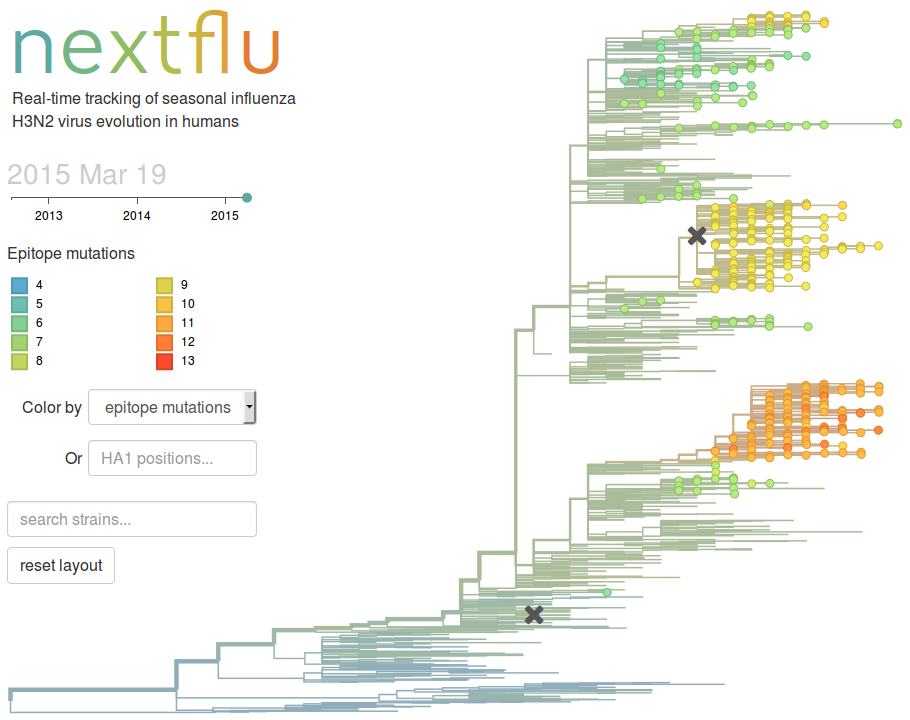
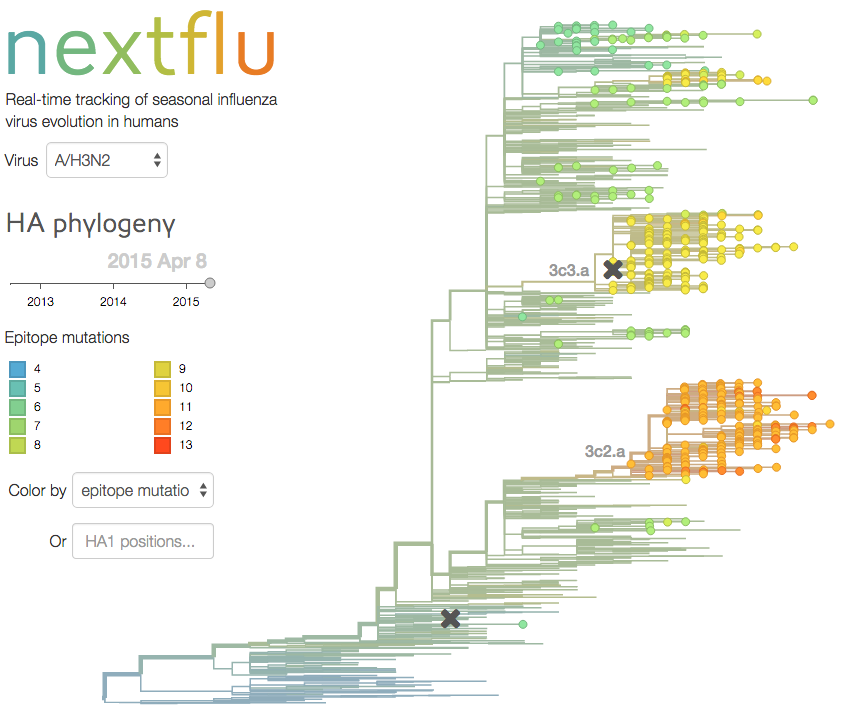
Minor revisions and swap screenshots.

diff --git a/manuscript/nextflu.tex b/manuscript/nextflu.tex
@@ -56,6 +56,7 @@ However, influenza viruses constantly evolve and thereby undergo antigenic drift
 Owing to antigenic drift, the seasonal influenza vaccine needs frequent updating to remain effective.
 In any given year, the particular choice of vaccine strain plays a major role in determining vaccine efficacy and so it is of critical importance to develop tools to analyze the ongoing evolution of the influenza virus population in order to aid vaccine strain selection.
 The program \nextflu{} presents a near real-time display of genetic relationships among influenza viruses and allows investigation of currently available sequence data.
+Currently, \nextflu{} tracks all four circulating lineages of seasonal influenza: A/H3N2, A/H1N1pdm, B/Victoria and B/Yamagata.
 
 \begin{figure}[t!]
 	\centering
@@ -72,8 +73,7 @@ Here, viruses without complete date or geographic information, viruses passaged 
 In addition, local outbreaks are filtered by keeping only one instance of identical sequences sampled at the same location on the same day.
 Following filtering, the viruses are subsampled to achieve a more equitable temporal and geographic distribution.
 For our standard display period of 3 years and 50 viruses per month, this typically results in $\sim$1800 viruses, which we align using MAFFT \citep{katoh_mafft_2013}.
-Once aligned, the set of virus sequences is further cleaned by removing insertions relative to the outgroup to enforce canonical HA site numbering and by removing sequences that show either too much or too little divergence relative to the expectation given sampling date.
-Additionally, known reassortant clusters are removed, including the triple-reassortant influenza viruses sporadically sampled in humans throughout North America \citep{bastien_human_2010}.
+Once aligned, the set of virus sequences is further cleaned by removing insertions relative to the outgroup to enforce canonical HA site numbering, by removing sequences that show either too much or too little divergence relative to the expectation given sampling date, and by removing known reassortant clusters.
 
 From the filtered and cleaned alignment, \augur{} builds a phylogenetic tree using FastTree \citep{price_fasttree_2009}, which is then further refined using RAxML \citep{stamatakis_raxml_2014}.
 Next, the state of every internal node of the tree is inferred using a marginal maximum likelihood method and missing sequence data at phylogeny tips is filled with the nearest ancestral sequence at these sites.
@@ -83,7 +83,7 @@ The final tree is decorated with the attributes to be displayed in the browser. 
 
 In addition to the phylogenetic tree, \augur{} estimates the frequency trajectories of mutations, genotypes and clades in the tree. 
 Frequency trajectories are represented as a linear interpolation $x(t)$ of pivot frequencies $x_i$ at time points $t_i$ spaced one month apart. 
-The frequencies $x_i$ corresponding to a feature $\phi$ (e.g. mutation) are estimated by simultaneously maximizing the Bernoulli observation model 
+The frequencies $x_i$ corresponding to a feature $\phi$ (e.g.\ mutation) are estimated by simultaneously maximizing the Bernoulli observation model 
 \begin{equation}
 	\label{eq:obs}
 	f(\mathbf{x}) = \prod_{v\in V_\phi} x(t_v) \prod_{v\notin V_{\phi}} (1-x(t_v))
@@ -114,9 +114,6 @@ The user can explore the data interactively by selecting viruses from different 
     \item \textit{HA genotype} directly colors the tree by genotype at specific amino acid positions.
 \end{itemize}
 
-The frequency plot below the tree (\FIG{freq}) displays the frequency trajectory of clades in the tree whenever the mouse hovers above the branch defining the clade. 
-Furthermore, trajectories of individual mutations, combinations of two mutations, and predefined clades such as 3c3.a can be plotted.
-
 \begin{figure}[t]
 	\centering
 	\includegraphics[width=0.99\columnwidth]{figures/frequencies}
@@ -124,22 +121,18 @@ Furthermore, trajectories of individual mutations, combinations of two mutations
 	\label{fig:freq}
 \end{figure}
 
+The frequency plot below the tree (\FIG{freq}) displays the frequency trajectory of clades in the tree whenever the mouse hovers above the branch defining the clade. 
+Furthermore, trajectories of individual mutations, combinations of two mutations, and predefined clades such as 3c3.a can be plotted.
+
 %\section{Conclusion}
 We built \nextflu{} to facilitate the analysis and exploration of seasonal influenza sequence data collected by laboratories around to world.
 By using the most recent data and integrating phylogenies with frequency trajectories and predictors of successful clades, we hope that \nextflu{} can inform the choice of strains used in seasonal influenza vaccines. 
-\nextflu{} was designed to be readily adapted to other rapidly evolving viruses and we have implemented pipelines for all four seasonal influenza viruses.
+\nextflu{} was designed to be readily adapted to other rapidly evolving viruses and we see significant room for future developments in this area.
  
 \paragraph{Funding\textcolon}This work is supported by the ERC though Stg-260686 and by the NIH through U54 GM111274.
 
 %%%%%%%%%%%%%%%%%%%%%%%%%%%%%%%%%%%%%%%%%%%%%%%%%%%%%%%%%%%%%%%%%%%%%%%%%%%%%%
 \begin{thebibliography}{}
-
-\bibitem[Bastien {\em et~al.}, 2010]{bastien_human_2010}
-Bastien,N. {\em et~al.} (2010{\em{}})
-  Human infection with a triple-reassortant swine influenza {A (H1N1)} virus
-  containing the hemagglutinin and neuraminidase genes of seasonal influenza
-  virus.
-\newblock {\em J Infect Dis, } {\bf 201} (8), 1178--1182.
 
 \bibitem[Bogner {\em et~al.}, 2006]{GISAID}
 Bogner,P. {\em et~al.} (2006{\em{}}) A global
